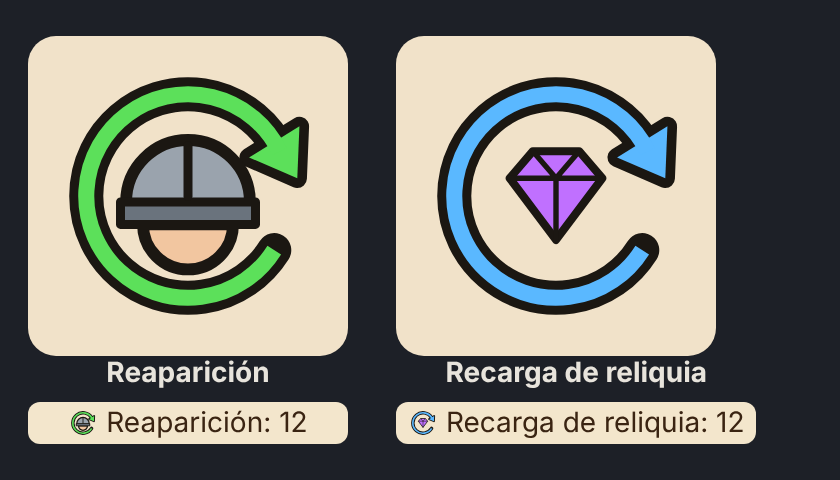
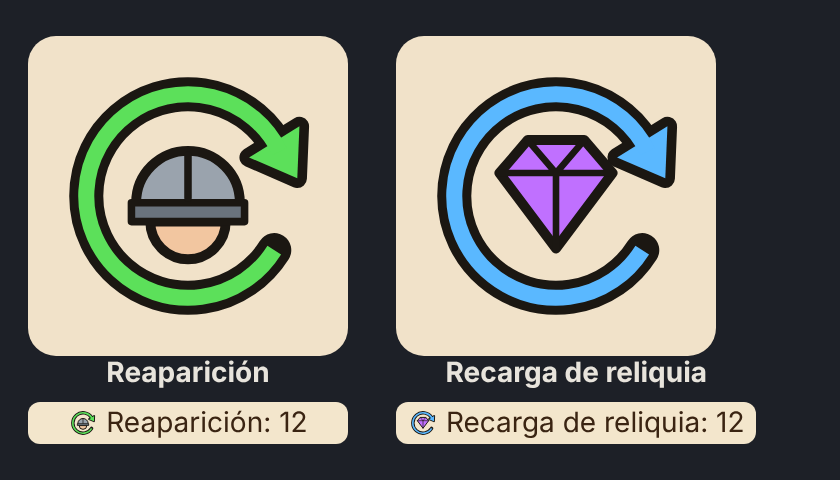
Maquetas: soldado más pequeño y gema más grande en reaparición y recarga
Claude-Session: https://claude.ai/code/session_01KTvhdvJBVdNEHfAwzaEr54

diff --git a/maquetas/reaparicion.html b/maquetas/reaparicion.html
@@ -1,1 +1,1 @@
-<body style="margin:0;background:#1d2027;color:#e8e4dc;font:14px system-ui;padding:14px;display:flex;gap:24px;align-items:center"><div style="text-align:center"><div style="width:160px;height:160px;border-radius:14px;background:#f1e2c9;display:grid;place-items:center"><svg width="150" height="150" viewBox="-4 -4 56 56" style="vertical-align:-0.2em"><path d="M40.1 34.1A19 19 0 1 1 40.1 13.9" fill="none" stroke="#1b1712" stroke-width="6.36" stroke-linecap="round"/><path d="M44.4 20.7L35.4 16.8L44.8 11.0z" fill="#1b1712" stroke="#1b1712" stroke-width="3.6" stroke-linejoin="round"/><path d="M44.4 20.7L35.4 16.8L44.8 11.0z" fill="#5ce05a"/><path d="M40.1 34.1A19 19 0 1 1 41.1 15.7" fill="none" stroke="#5ce05a" stroke-width="3" stroke-linecap="butt"/><g transform="translate(24 23) scale(1.05)"><path d="M-8 6a8 8 0 0 0 16 0z" fill="#f2c6a0" stroke="#1b1712" stroke-width="2.1" stroke-linejoin="round" stroke-linecap="round"/><path d="M-11 4v-2a11 11 0 0 1 22 0v2z" fill="#9aa3ad" stroke="#1b1712" stroke-width="2.1" stroke-linejoin="round" stroke-linecap="round"/><path d="M-12 2h24v4h-24z" fill="#6a737d" stroke="#1b1712" stroke-width="1.6" stroke-linejoin="round" stroke-linecap="round"/><path d="M0 -8v9" fill="none" stroke="#1b1712" stroke-width="1.6" stroke-linecap="round"/></g></svg></div><b>Reaparición</b><div style="margin-top:6px;background:#f3e6cc;color:#3a2412;border-radius:6px;padding:2px 6px"><svg width="15" height="15" viewBox="-4 -4 56 56" style="vertical-align:-0.2em"><path d="M40.1 34.1A19 19 0 1 1 40.1 13.9" fill="none" stroke="#1b1712" stroke-width="6.36" stroke-linecap="round"/><path d="M44.4 20.7L35.4 16.8L44.8 11.0z" fill="#1b1712" stroke="#1b1712" stroke-width="3.6" stroke-linejoin="round"/><path d="M44.4 20.7L35.4 16.8L44.8 11.0z" fill="#5ce05a"/><path d="M40.1 34.1A19 19 0 1 1 41.1 15.7" fill="none" stroke="#5ce05a" stroke-width="3" stroke-linecap="butt"/><g transform="translate(24 23) scale(1.05)"><path d="M-8 6a8 8 0 0 0 16 0z" fill="#f2c6a0" stroke="#1b1712" stroke-width="2.1" stroke-linejoin="round" stroke-linecap="round"/><path d="M-11 4v-2a11 11 0 0 1 22 0v2z" fill="#9aa3ad" stroke="#1b1712" stroke-width="2.1" stroke-linejoin="round" stroke-linecap="round"/><path d="M-12 2h24v4h-24z" fill="#6a737d" stroke="#1b1712" stroke-width="1.6" stroke-linejoin="round" stroke-linecap="round"/><path d="M0 -8v9" fill="none" stroke="#1b1712" stroke-width="1.6" stroke-linecap="round"/></g></svg> Reaparición: 12</div></div><div style="text-align:center"><div style="width:160px;height:160px;border-radius:14px;background:#f1e2c9;display:grid;place-items:center"><svg width="150" height="150" viewBox="-4 -4 56 56" style="vertical-align:-0.2em"><path d="M40.1 34.1A19 19 0 1 1 40.1 13.9" fill="none" stroke="#1b1712" stroke-width="6.36" stroke-linecap="round"/><path d="M44.4 20.7L35.4 16.8L44.8 11.0z" fill="#1b1712" stroke="#1b1712" stroke-width="3.6" stroke-linejoin="round"/><path d="M44.4 20.7L35.4 16.8L44.8 11.0z" fill="#5ab8ff"/><path d="M40.1 34.1A19 19 0 1 1 41.1 15.7" fill="none" stroke="#5ab8ff" stroke-width="3" stroke-linecap="butt"/><g transform="translate(24 25) scale(0.72)"><path d="M-12 -6l6-7h12l6 7-12 16z" fill="#c070ff" stroke="#1b1712" stroke-width="2.1" stroke-linejoin="round" stroke-linecap="round"/><path d="M-12 -6h24M-6 -13l6 7 6-7M0 -6v16" fill="none" stroke="#1b1712" stroke-width="1.4" stroke-linecap="round"/></g></svg></div><b>Recarga de reliquia</b><div style="margin-top:6px;background:#f3e6cc;color:#3a2412;border-radius:6px;padding:2px 6px"><svg width="15" height="15" viewBox="-4 -4 56 56" style="vertical-align:-0.2em"><path d="M40.1 34.1A19 19 0 1 1 40.1 13.9" fill="none" stroke="#1b1712" stroke-width="6.36" stroke-linecap="round"/><path d="M44.4 20.7L35.4 16.8L44.8 11.0z" fill="#1b1712" stroke="#1b1712" stroke-width="3.6" stroke-linejoin="round"/><path d="M44.4 20.7L35.4 16.8L44.8 11.0z" fill="#5ab8ff"/><path d="M40.1 34.1A19 19 0 1 1 41.1 15.7" fill="none" stroke="#5ab8ff" stroke-width="3" stroke-linecap="butt"/><g transform="translate(24 25) scale(0.72)"><path d="M-12 -6l6-7h12l6 7-12 16z" fill="#c070ff" stroke="#1b1712" stroke-width="2.1" stroke-linejoin="round" stroke-linecap="round"/><path d="M-12 -6h24M-6 -13l6 7 6-7M0 -6v16" fill="none" stroke="#1b1712" stroke-width="1.4" stroke-linecap="round"/></g></svg> Recarga de reliquia: 12</div></div>
+<body style="margin:0;background:#1d2027;color:#e8e4dc;font:14px system-ui;padding:14px;display:flex;gap:24px;align-items:center"><div style="text-align:center"><div style="width:160px;height:160px;border-radius:14px;background:#f1e2c9;display:grid;place-items:center"><svg width="150" height="150" viewBox="-4 -4 56 56" style="vertical-align:-0.2em"><path d="M40.1 34.1A19 19 0 1 1 40.1 13.9" fill="none" stroke="#1b1712" stroke-width="6.36" stroke-linecap="round"/><path d="M44.4 20.7L35.4 16.8L44.8 11.0z" fill="#1b1712" stroke="#1b1712" stroke-width="3.6" stroke-linejoin="round"/><path d="M44.4 20.7L35.4 16.8L44.8 11.0z" fill="#5ce05a"/><path d="M40.1 34.1A19 19 0 1 1 41.1 15.7" fill="none" stroke="#5ce05a" stroke-width="3" stroke-linecap="butt"/><g transform="translate(24 23.5) scale(0.88)"><path d="M-8 6a8 8 0 0 0 16 0z" fill="#f2c6a0" stroke="#1b1712" stroke-width="2.1" stroke-linejoin="round" stroke-linecap="round"/><path d="M-11 4v-2a11 11 0 0 1 22 0v2z" fill="#9aa3ad" stroke="#1b1712" stroke-width="2.1" stroke-linejoin="round" stroke-linecap="round"/><path d="M-12 2h24v4h-24z" fill="#6a737d" stroke="#1b1712" stroke-width="1.6" stroke-linejoin="round" stroke-linecap="round"/><path d="M0 -8v9" fill="none" stroke="#1b1712" stroke-width="1.6" stroke-linecap="round"/></g></svg></div><b>Reaparición</b><div style="margin-top:6px;background:#f3e6cc;color:#3a2412;border-radius:6px;padding:2px 6px"><svg width="15" height="15" viewBox="-4 -4 56 56" style="vertical-align:-0.2em"><path d="M40.1 34.1A19 19 0 1 1 40.1 13.9" fill="none" stroke="#1b1712" stroke-width="6.36" stroke-linecap="round"/><path d="M44.4 20.7L35.4 16.8L44.8 11.0z" fill="#1b1712" stroke="#1b1712" stroke-width="3.6" stroke-linejoin="round"/><path d="M44.4 20.7L35.4 16.8L44.8 11.0z" fill="#5ce05a"/><path d="M40.1 34.1A19 19 0 1 1 41.1 15.7" fill="none" stroke="#5ce05a" stroke-width="3" stroke-linecap="butt"/><g transform="translate(24 23.5) scale(0.88)"><path d="M-8 6a8 8 0 0 0 16 0z" fill="#f2c6a0" stroke="#1b1712" stroke-width="2.1" stroke-linejoin="round" stroke-linecap="round"/><path d="M-11 4v-2a11 11 0 0 1 22 0v2z" fill="#9aa3ad" stroke="#1b1712" stroke-width="2.1" stroke-linejoin="round" stroke-linecap="round"/><path d="M-12 2h24v4h-24z" fill="#6a737d" stroke="#1b1712" stroke-width="1.6" stroke-linejoin="round" stroke-linecap="round"/><path d="M0 -8v9" fill="none" stroke="#1b1712" stroke-width="1.6" stroke-linecap="round"/></g></svg> Reaparición: 12</div></div><div style="text-align:center"><div style="width:160px;height:160px;border-radius:14px;background:#f1e2c9;display:grid;place-items:center"><svg width="150" height="150" viewBox="-4 -4 56 56" style="vertical-align:-0.2em"><path d="M40.1 34.1A19 19 0 1 1 40.1 13.9" fill="none" stroke="#1b1712" stroke-width="6.36" stroke-linecap="round"/><path d="M44.4 20.7L35.4 16.8L44.8 11.0z" fill="#1b1712" stroke="#1b1712" stroke-width="3.6" stroke-linejoin="round"/><path d="M44.4 20.7L35.4 16.8L44.8 11.0z" fill="#5ab8ff"/><path d="M40.1 34.1A19 19 0 1 1 41.1 15.7" fill="none" stroke="#5ab8ff" stroke-width="3" stroke-linecap="butt"/><g transform="translate(24 25) scale(0.88)"><path d="M-12 -6l6-7h12l6 7-12 16z" fill="#c070ff" stroke="#1b1712" stroke-width="2.1" stroke-linejoin="round" stroke-linecap="round"/><path d="M-12 -6h24M-6 -13l6 7 6-7M0 -6v16" fill="none" stroke="#1b1712" stroke-width="1.4" stroke-linecap="round"/></g></svg></div><b>Recarga de reliquia</b><div style="margin-top:6px;background:#f3e6cc;color:#3a2412;border-radius:6px;padding:2px 6px"><svg width="15" height="15" viewBox="-4 -4 56 56" style="vertical-align:-0.2em"><path d="M40.1 34.1A19 19 0 1 1 40.1 13.9" fill="none" stroke="#1b1712" stroke-width="6.36" stroke-linecap="round"/><path d="M44.4 20.7L35.4 16.8L44.8 11.0z" fill="#1b1712" stroke="#1b1712" stroke-width="3.6" stroke-linejoin="round"/><path d="M44.4 20.7L35.4 16.8L44.8 11.0z" fill="#5ab8ff"/><path d="M40.1 34.1A19 19 0 1 1 41.1 15.7" fill="none" stroke="#5ab8ff" stroke-width="3" stroke-linecap="butt"/><g transform="translate(24 25) scale(0.88)"><path d="M-12 -6l6-7h12l6 7-12 16z" fill="#c070ff" stroke="#1b1712" stroke-width="2.1" stroke-linejoin="round" stroke-linecap="round"/><path d="M-12 -6h24M-6 -13l6 7 6-7M0 -6v16" fill="none" stroke="#1b1712" stroke-width="1.4" stroke-linecap="round"/></g></svg> Recarga de reliquia: 12</div></div>
